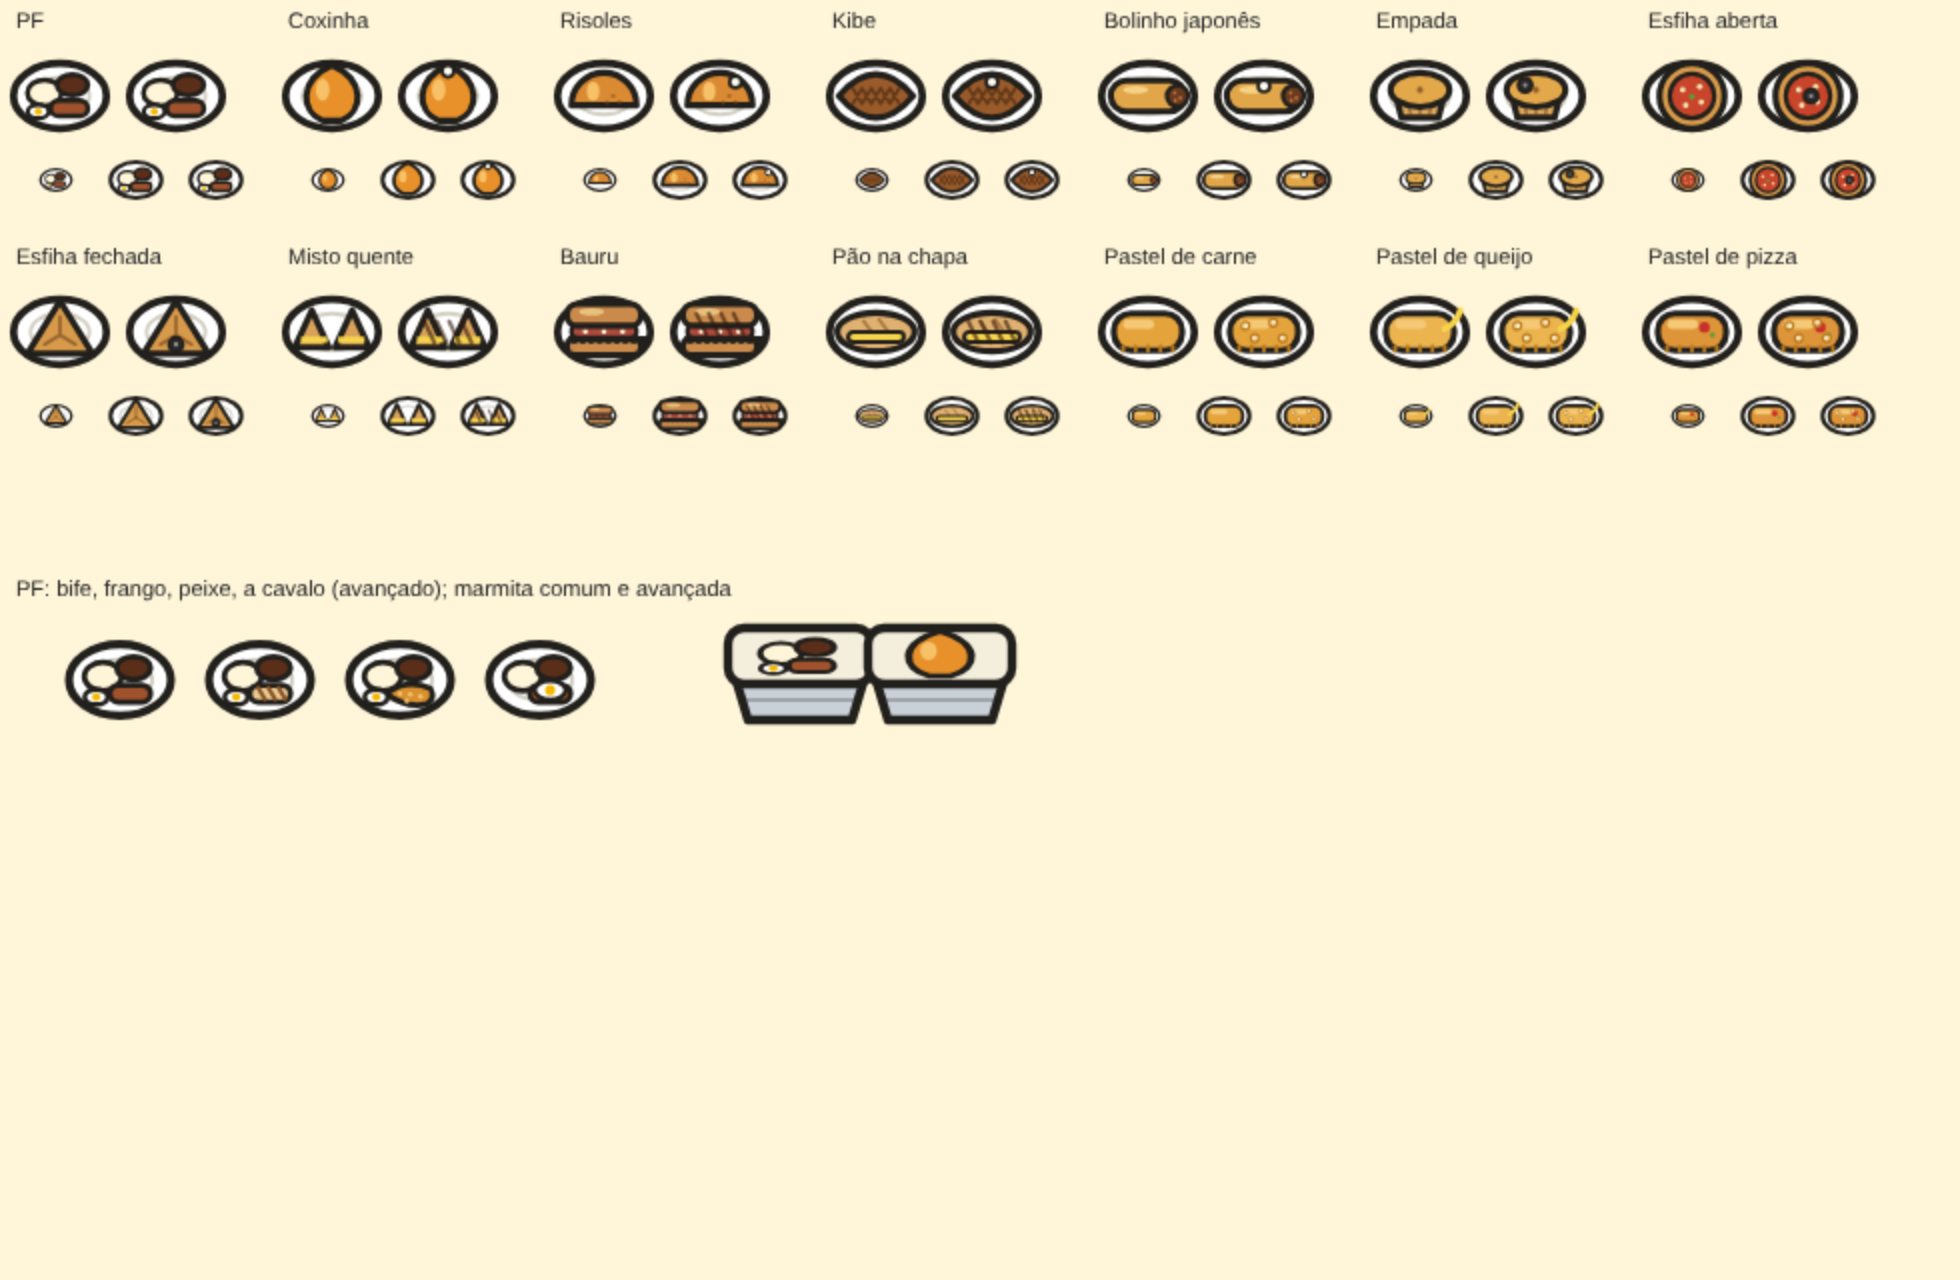
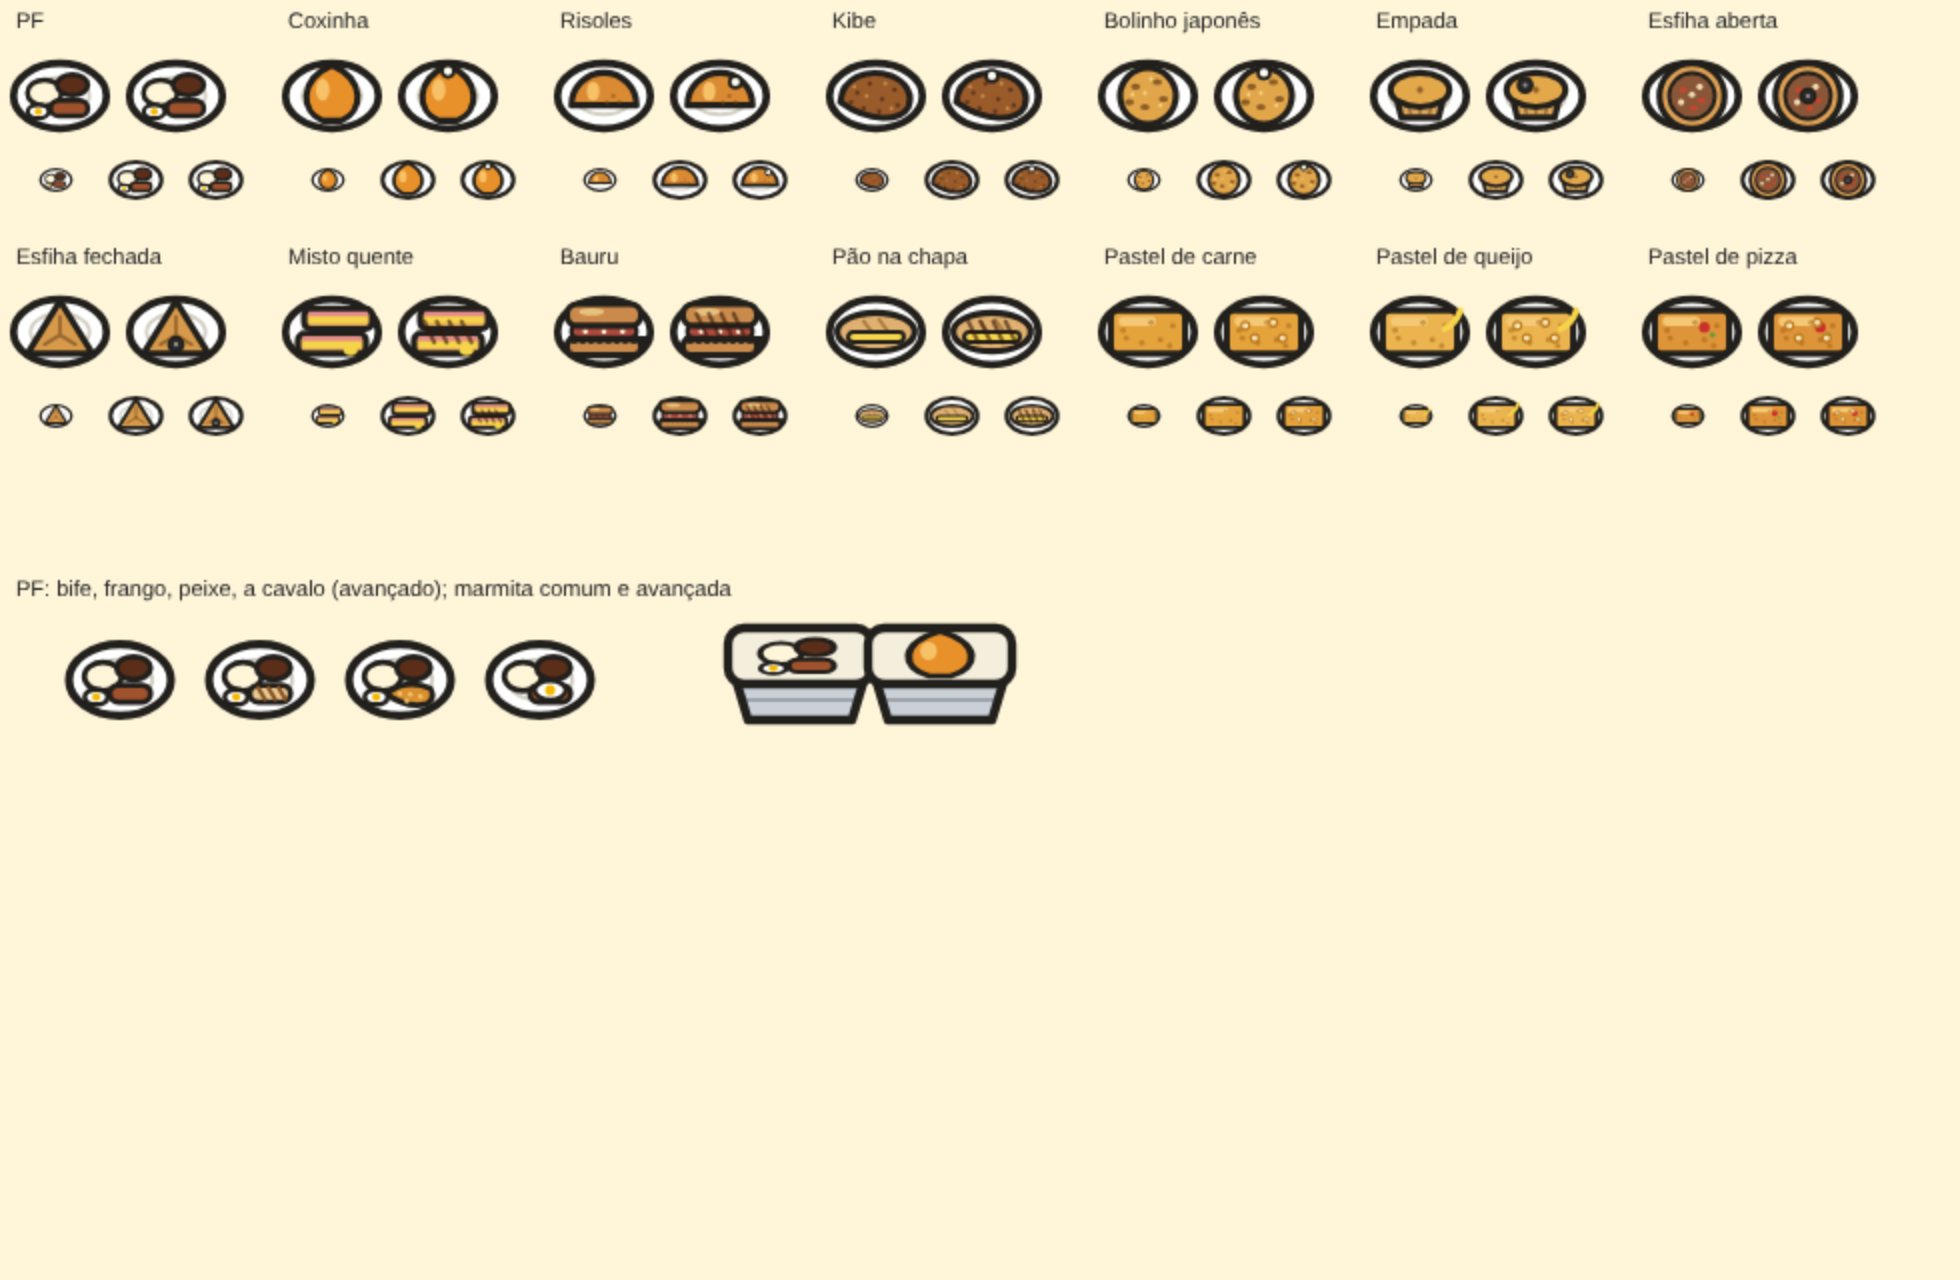
v8.6.10 (rascunho): kibe oval sem risquinhos, esfiha aberta com carne, misto em metades, pastel retangular, bolinho redondo
Claude-Session: https://claude.ai/code/session_01U1ordx5c1e1RmXK5tx8x8k

diff --git a/lanchonete.html b/lanchonete.html
@@ -4031,16 +4031,17 @@ function drawComida(ctx,k,carne,av){
     ctx.fillStyle = 'rgba(120,70,20,.5)'; for (const d of [[3,0],[5,2],[1,2.2]]){ circ(ctx,d[0],d[1],0.7); ctx.fill(); }
     dx = 5; dy = -4.5;
   } else if (k === 'kibe'){
-    ctx.beginPath(); ctx.moveTo(-12,0); ctx.quadraticCurveTo(0,-14,12,0); ctx.quadraticCurveTo(0,14,-12,0); ctx.closePath(); fs(ctx,cor,2);
-    ctx.strokeStyle = 'rgba(40,20,5,.45)'; ctx.lineWidth = 1.1; ctx.beginPath();
-    for (let x=-6;x<=6;x+=3){ ctx.moveTo(x-1.5,-2.5); ctx.lineTo(x+1.5,2.5); ctx.moveTo(x+1.5,-2.5); ctx.lineTo(x-1.5,2.5); } ctx.stroke();
-    dx = 0; dy = -4.5;
+    // o kibe frito: oval de trigo, um pouco mais fino numa ponta, de casca áspera (sem risquinhos)
+    ctx.beginPath(); ctx.moveTo(-11.5,2); ctx.bezierCurveTo(-11,-6,-3,-9,5,-6.5); ctx.bezierCurveTo(10,-4.5,12,0,10.5,3.5); ctx.bezierCurveTo(8,8,-2,9,-11.5,2); ctx.closePath(); fs(ctx,cor,2);
+    ctx.fillStyle = 'rgba(40,20,5,.5)'; for (const d of [[-6,-1],[-2,-4],[2,1],[6,-2],[-4,4],[1,5],[7,3],[-8,2]]){ circ(ctx,d[0],d[1],0.75); ctx.fill(); }
+    ctx.fillStyle = 'rgba(240,190,110,.55)'; for (const d of [[-3,0],[3,-4],[5,4],[-7,-3]]){ circ(ctx,d[0],d[1],0.6); ctx.fill(); }
+    dx = 0; dy = -6.5;
   } else if (k === 'bolinho'){
-    rr(ctx,-12,-5,24,10,5); fs(ctx,cor,2);
-    circ(ctx,9.5,0,3.4); fs(ctx,'#6B3A1E',1.4);
-    ctx.fillStyle = '#B97A4A'; for (const d of [[8.6,-1],[10.4,0.6],[8.8,1.4]]){ circ(ctx,d[0],d[1],0.55); ctx.fill(); }
-    ctx.fillStyle = 'rgba(255,230,160,.7)'; ell(ctx,-4,-2,4,1.2); ctx.fill();
-    dx = 0; dy = -3.2;
+    // o bolinho japonês: uma bolinha de massa frita, empanada e áspera, com manchas escuras do recheio
+    circ(ctx,0,0,9); fs(ctx,cor,2);
+    ctx.fillStyle = 'rgba(70,35,10,.55)'; for (const d of [[-4,-3],[3,-4.5],[5,1],[-1,3.5],[-6,2]]){ ell(ctx,d[0],d[1],1.5,1); ctx.fill(); }
+    ctx.fillStyle = 'rgba(255,235,170,.7)'; for (const d of [[-1,-1],[4,3],[-5,-0.5],[1,-5.5]]){ circ(ctx,d[0],d[1],0.6); ctx.fill(); }
+    dx = 0; dy = -7.5;
   } else if (k === 'empada'){
     ctx.beginPath(); ctx.moveTo(-8,-1); ctx.lineTo(8,-1); ctx.lineTo(6,7); ctx.lineTo(-6,7); ctx.closePath(); fs(ctx,'#D9A55B',2);
     ctx.strokeStyle = 'rgba(90,50,20,.45)'; ctx.lineWidth = 1; ctx.beginPath(); ctx.moveTo(-4,1); ctx.lineTo(-3,6); ctx.moveTo(0,1); ctx.lineTo(0,6); ctx.moveTo(4,1); ctx.lineTo(3,6); ctx.stroke();
@@ -4048,11 +4049,12 @@ function drawComida(ctx,k,carne,av){
     ctx.fillStyle = 'rgba(90,50,20,.6)'; circ(ctx,0,-2,1); ctx.fill();
     dx = -3.5; dy = -3.5;
   } else if (k === 'esfihaA'){
-    circ(ctx,0,0,10.5); fs(ctx,'#D79A4B',2);
-    circ(ctx,0,0,7.2); fs(ctx,cor,1.4);
-    ctx.fillStyle = '#F4E3B0'; for (const d of [[-3,-2],[2.5,-3],[3,2],[-2,3]]){ circ(ctx,d[0],d[1],0.9); ctx.fill(); }
-    ctx.fillStyle = '#5E9B3A'; circ(ctx,0,0.3,0.9); ctx.fill();
-    dx = 1; dy = 0;
+    // a esfiha aberta: massa dourada com a carne moída à mostra (marrom, com pedacinhos de tomate e cebola), sem fundo vermelho
+    circ(ctx,0,0,10.5); fs(ctx,'#DDA054',2);
+    circ(ctx,0,0,7.4); fs(ctx,'#8A5638',1.2);
+    ctx.fillStyle = '#C8452B'; for (const d of [[-3,-2],[3,1.5],[0.5,3.8]]){ rr(ctx,d[0]-1,d[1]-0.8,2.2,1.6,0.6); ctx.fill(); }
+    ctx.fillStyle = '#EFDCB0'; for (const d of [[2.5,-3],[-3.5,2],[0,-0.5]]){ circ(ctx,d[0],d[1],1); ctx.fill(); }
+    dx = 0; dy = 0;
   } else if (k === 'esfihaF'){
     ctx.beginPath(); ctx.moveTo(0,-10); ctx.lineTo(10.5,7); ctx.lineTo(-10.5,7); ctx.closePath(); ctx.lineJoin = 'round'; fs(ctx,cor,2);
     ctx.strokeStyle = 'rgba(90,50,20,.5)'; ctx.lineWidth = 1.1; ctx.beginPath();
@@ -4073,10 +4075,10 @@ function drawComida(ctx,k,carne,av){
     rr(ctx,-9,0,18,3.2,1.6); fs(ctx,'#F6D44A',1.3);
     dx = 0; dy = 0;
   } else if (k === 'pastelQ' || k === 'pastelP' || cat === 'pastel'){
-    rr(ctx,-11,-6,22,12,5.5); fs(ctx,cor,2);
-    ctx.fillStyle = '#F4C874'; rr(ctx,-8,-4,10,3,1.5); ctx.fill();
-    ctx.strokeStyle = '#B97A1E'; ctx.lineWidth = 1.2;
-    for (let i=-8;i<=8;i+=4){ ctx.beginPath(); ctx.moveTo(i,4.6); ctx.lineTo(i,6.2); ctx.stroke(); }
+    // o pastel: retângulo de massa frita e bolhosa, de cantos quase retos
+    rr(ctx,-12,-7,24,14,2.2); fs(ctx,cor,2);
+    ctx.fillStyle = '#F4C874'; rr(ctx,-9.5,-5,12,3,1.2); ctx.fill();
+    ctx.fillStyle = 'rgba(150,90,20,.45)'; for (const d of [[-7,2],[-2,3.5],[4,2.5],[8,-2],[1,-3],[-8,-0.5],[7,4.5]]){ circ(ctx,d[0],d[1],0.9); ctx.fill(); }
     if (k === 'pastelQ'){
       ctx.strokeStyle = '#F6D44A'; ctx.lineWidth = 2; ctx.lineCap = 'round'; ctx.beginPath(); ctx.moveTo(8,-1); ctx.quadraticCurveTo(12,-3,13,-7); ctx.stroke(); ctx.lineCap = 'butt';
     } else if (k === 'pastelP'){
@@ -4090,10 +4092,13 @@ function drawComida(ctx,k,carne,av){
     dx = 0; dy = -8;
   } else if (cat === 'assado'){
     circ(ctx,0,0,9.5); fs(ctx,cor,2);
-  } else { // misto-quente
-    ctx.beginPath(); ctx.moveTo(-12,5); ctx.lineTo(-1,5); ctx.lineTo(-6.5,-7); ctx.closePath(); fs(ctx,cor,2);
-    ctx.beginPath(); ctx.moveTo(1,5); ctx.lineTo(12,5); ctx.lineTo(6.5,-7); ctx.closePath(); fs(ctx,cor,2);
-    ctx.fillStyle = '#F6D44A'; ctx.fillRect(-10,1.5,8.5,2); ctx.fillRect(2,1.5,8.5,2);
+  } else { // misto quente: duas metades de pão tostado empilhadas, com presunto e queijo à mostra
+    rr(ctx,-11,0.5,22,6.5,2.2); fs(ctx,cor,2);
+    ctx.fillStyle = '#E58C8C'; ctx.fillRect(-9.5,1.4,19,1.6);
+    ctx.fillStyle = '#F6D44A'; ctx.fillRect(-9.5,3,19,2.2); ell(ctx,6,6,2.2,1.6); ctx.fill();
+    rr(ctx,-9,-7.5,22,6.5,2.2); fs(ctx,cor,2);
+    ctx.fillStyle = '#E58C8C'; ctx.fillRect(-7.5,-6.6,19,1.6);
+    ctx.fillStyle = '#F6D44A'; ctx.fillRect(-7.5,-5,19,2.2);
     dx = 0; dy = 0;
   }
   if (!av) return;

diff --git a/src/20-desenho-base.js b/src/20-desenho-base.js
@@ -125,16 +125,17 @@ function drawComida(ctx,k,carne,av){
     ctx.fillStyle = 'rgba(120,70,20,.5)'; for (const d of [[3,0],[5,2],[1,2.2]]){ circ(ctx,d[0],d[1],0.7); ctx.fill(); }
     dx = 5; dy = -4.5;
   } else if (k === 'kibe'){
-    ctx.beginPath(); ctx.moveTo(-12,0); ctx.quadraticCurveTo(0,-14,12,0); ctx.quadraticCurveTo(0,14,-12,0); ctx.closePath(); fs(ctx,cor,2);
-    ctx.strokeStyle = 'rgba(40,20,5,.45)'; ctx.lineWidth = 1.1; ctx.beginPath();
-    for (let x=-6;x<=6;x+=3){ ctx.moveTo(x-1.5,-2.5); ctx.lineTo(x+1.5,2.5); ctx.moveTo(x+1.5,-2.5); ctx.lineTo(x-1.5,2.5); } ctx.stroke();
-    dx = 0; dy = -4.5;
+    // o kibe frito: oval de trigo, um pouco mais fino numa ponta, de casca áspera (sem risquinhos)
+    ctx.beginPath(); ctx.moveTo(-11.5,2); ctx.bezierCurveTo(-11,-6,-3,-9,5,-6.5); ctx.bezierCurveTo(10,-4.5,12,0,10.5,3.5); ctx.bezierCurveTo(8,8,-2,9,-11.5,2); ctx.closePath(); fs(ctx,cor,2);
+    ctx.fillStyle = 'rgba(40,20,5,.5)'; for (const d of [[-6,-1],[-2,-4],[2,1],[6,-2],[-4,4],[1,5],[7,3],[-8,2]]){ circ(ctx,d[0],d[1],0.75); ctx.fill(); }
+    ctx.fillStyle = 'rgba(240,190,110,.55)'; for (const d of [[-3,0],[3,-4],[5,4],[-7,-3]]){ circ(ctx,d[0],d[1],0.6); ctx.fill(); }
+    dx = 0; dy = -6.5;
   } else if (k === 'bolinho'){
-    rr(ctx,-12,-5,24,10,5); fs(ctx,cor,2);
-    circ(ctx,9.5,0,3.4); fs(ctx,'#6B3A1E',1.4);
-    ctx.fillStyle = '#B97A4A'; for (const d of [[8.6,-1],[10.4,0.6],[8.8,1.4]]){ circ(ctx,d[0],d[1],0.55); ctx.fill(); }
-    ctx.fillStyle = 'rgba(255,230,160,.7)'; ell(ctx,-4,-2,4,1.2); ctx.fill();
-    dx = 0; dy = -3.2;
+    // o bolinho japonês: uma bolinha de massa frita, empanada e áspera, com manchas escuras do recheio
+    circ(ctx,0,0,9); fs(ctx,cor,2);
+    ctx.fillStyle = 'rgba(70,35,10,.55)'; for (const d of [[-4,-3],[3,-4.5],[5,1],[-1,3.5],[-6,2]]){ ell(ctx,d[0],d[1],1.5,1); ctx.fill(); }
+    ctx.fillStyle = 'rgba(255,235,170,.7)'; for (const d of [[-1,-1],[4,3],[-5,-0.5],[1,-5.5]]){ circ(ctx,d[0],d[1],0.6); ctx.fill(); }
+    dx = 0; dy = -7.5;
   } else if (k === 'empada'){
     ctx.beginPath(); ctx.moveTo(-8,-1); ctx.lineTo(8,-1); ctx.lineTo(6,7); ctx.lineTo(-6,7); ctx.closePath(); fs(ctx,'#D9A55B',2);
     ctx.strokeStyle = 'rgba(90,50,20,.45)'; ctx.lineWidth = 1; ctx.beginPath(); ctx.moveTo(-4,1); ctx.lineTo(-3,6); ctx.moveTo(0,1); ctx.lineTo(0,6); ctx.moveTo(4,1); ctx.lineTo(3,6); ctx.stroke();
@@ -142,11 +143,12 @@ function drawComida(ctx,k,carne,av){
     ctx.fillStyle = 'rgba(90,50,20,.6)'; circ(ctx,0,-2,1); ctx.fill();
     dx = -3.5; dy = -3.5;
   } else if (k === 'esfihaA'){
-    circ(ctx,0,0,10.5); fs(ctx,'#D79A4B',2);
-    circ(ctx,0,0,7.2); fs(ctx,cor,1.4);
-    ctx.fillStyle = '#F4E3B0'; for (const d of [[-3,-2],[2.5,-3],[3,2],[-2,3]]){ circ(ctx,d[0],d[1],0.9); ctx.fill(); }
-    ctx.fillStyle = '#5E9B3A'; circ(ctx,0,0.3,0.9); ctx.fill();
-    dx = 1; dy = 0;
+    // a esfiha aberta: massa dourada com a carne moída à mostra (marrom, com pedacinhos de tomate e cebola), sem fundo vermelho
+    circ(ctx,0,0,10.5); fs(ctx,'#DDA054',2);
+    circ(ctx,0,0,7.4); fs(ctx,'#8A5638',1.2);
+    ctx.fillStyle = '#C8452B'; for (const d of [[-3,-2],[3,1.5],[0.5,3.8]]){ rr(ctx,d[0]-1,d[1]-0.8,2.2,1.6,0.6); ctx.fill(); }
+    ctx.fillStyle = '#EFDCB0'; for (const d of [[2.5,-3],[-3.5,2],[0,-0.5]]){ circ(ctx,d[0],d[1],1); ctx.fill(); }
+    dx = 0; dy = 0;
   } else if (k === 'esfihaF'){
     ctx.beginPath(); ctx.moveTo(0,-10); ctx.lineTo(10.5,7); ctx.lineTo(-10.5,7); ctx.closePath(); ctx.lineJoin = 'round'; fs(ctx,cor,2);
     ctx.strokeStyle = 'rgba(90,50,20,.5)'; ctx.lineWidth = 1.1; ctx.beginPath();
@@ -167,10 +169,10 @@ function drawComida(ctx,k,carne,av){
     rr(ctx,-9,0,18,3.2,1.6); fs(ctx,'#F6D44A',1.3);
     dx = 0; dy = 0;
   } else if (k === 'pastelQ' || k === 'pastelP' || cat === 'pastel'){
-    rr(ctx,-11,-6,22,12,5.5); fs(ctx,cor,2);
-    ctx.fillStyle = '#F4C874'; rr(ctx,-8,-4,10,3,1.5); ctx.fill();
-    ctx.strokeStyle = '#B97A1E'; ctx.lineWidth = 1.2;
-    for (let i=-8;i<=8;i+=4){ ctx.beginPath(); ctx.moveTo(i,4.6); ctx.lineTo(i,6.2); ctx.stroke(); }
+    // o pastel: retângulo de massa frita e bolhosa, de cantos quase retos
+    rr(ctx,-12,-7,24,14,2.2); fs(ctx,cor,2);
+    ctx.fillStyle = '#F4C874'; rr(ctx,-9.5,-5,12,3,1.2); ctx.fill();
+    ctx.fillStyle = 'rgba(150,90,20,.45)'; for (const d of [[-7,2],[-2,3.5],[4,2.5],[8,-2],[1,-3],[-8,-0.5],[7,4.5]]){ circ(ctx,d[0],d[1],0.9); ctx.fill(); }
     if (k === 'pastelQ'){
       ctx.strokeStyle = '#F6D44A'; ctx.lineWidth = 2; ctx.lineCap = 'round'; ctx.beginPath(); ctx.moveTo(8,-1); ctx.quadraticCurveTo(12,-3,13,-7); ctx.stroke(); ctx.lineCap = 'butt';
     } else if (k === 'pastelP'){
@@ -184,10 +186,13 @@ function drawComida(ctx,k,carne,av){
     dx = 0; dy = -8;
   } else if (cat === 'assado'){
     circ(ctx,0,0,9.5); fs(ctx,cor,2);
-  } else { // misto-quente
-    ctx.beginPath(); ctx.moveTo(-12,5); ctx.lineTo(-1,5); ctx.lineTo(-6.5,-7); ctx.closePath(); fs(ctx,cor,2);
-    ctx.beginPath(); ctx.moveTo(1,5); ctx.lineTo(12,5); ctx.lineTo(6.5,-7); ctx.closePath(); fs(ctx,cor,2);
-    ctx.fillStyle = '#F6D44A'; ctx.fillRect(-10,1.5,8.5,2); ctx.fillRect(2,1.5,8.5,2);
+  } else { // misto quente: duas metades de pão tostado empilhadas, com presunto e queijo à mostra
+    rr(ctx,-11,0.5,22,6.5,2.2); fs(ctx,cor,2);
+    ctx.fillStyle = '#E58C8C'; ctx.fillRect(-9.5,1.4,19,1.6);
+    ctx.fillStyle = '#F6D44A'; ctx.fillRect(-9.5,3,19,2.2); ell(ctx,6,6,2.2,1.6); ctx.fill();
+    rr(ctx,-9,-7.5,22,6.5,2.2); fs(ctx,cor,2);
+    ctx.fillStyle = '#E58C8C'; ctx.fillRect(-7.5,-6.6,19,1.6);
+    ctx.fillStyle = '#F6D44A'; ctx.fillRect(-7.5,-5,19,2.2);
     dx = 0; dy = 0;
   }
   if (!av) return;
